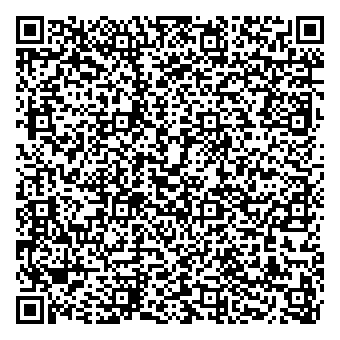
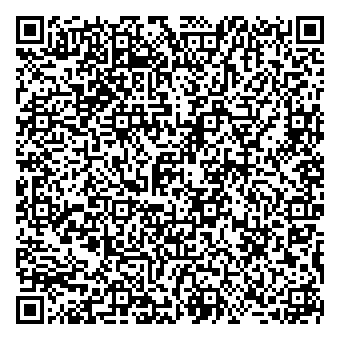
updated test45 to also include base32 version of cose for smaller QR.

diff --git a/testjws.js b/testjws.js
@@ -36,10 +36,14 @@ AwEHoUQDQgAE8HOwR7KpuzBJn+H2Go2Qk9EmsK20+wzylQ64IKhrrszOrmIekG1v
 IwT8wck/ahwIRdyWBEqCZ7gdy3Gg8MADTQ==
 -----END EC PRIVATE KEY-----`
 
-let payload = cbor.encode(DATA)
+//let encoded = cbor.encode(DATA)
+//let payload = encoded.toString('hex')
+//let payload = { c: encoded }
+let payload = DATA
 
 console.log("JSON SIZE:",JSON.stringify(DATA).length)
-console.log("PAYLOAD IS",payload.length,payload)
+//console.log("CBOR SIZE:",encoded.length)
+console.log("PAYLOAD IS",payload.length)
 
 let signature = jws.sign( {
   header: { alg: ALGO },
@@ -47,10 +51,13 @@ let signature = jws.sign( {
   privateKey: privKey
 } )
 
-//let pubKey = fs.readFileSync( process.argv[3] )
 console.log(signature.length,signature)
 
-//console.log( jws.verify( signature, ALGO, pubKey.toString() ) )
+let pubKey = `-----BEGIN PUBLIC KEY-----
[1 lines of base64/hex data omitted]
++wzylQ64IKhrrszOrmIekG1vIwT8wck/ahwIRdyWBEqCZ7gdy3Gg8MADTQ==
+-----END PUBLIC KEY-----`
+console.log( jws.verify( signature, ALGO, pubKey.toString() ) )
 
 console.log("JWS L")
 console.log(qrcode.create(signature, { errorCorrectionLevel: 'L' }))
@@ -68,6 +75,8 @@ console.log(qrcode.create(sig_32, { errorCorrectionLevel: 'Q' }))
 
 let decoded = jws.decode(signature)
 console.log(decoded)
+//console.log(cbor.decode(Buffer.from(decoded.payload,'hex')))
+
 console.log(JSON.stringify(decoded).length)
 let cbor_decoded = base32.encode(cbor.encode(decoded)).toUpperCase()
 console.log(cbor_decoded.length, cbor_decoded)

diff --git a/test45.js b/test45.js
@@ -1,6 +1,7 @@
 const cbor = require('cbor')
 const qrcode = require('qrcode')
 const base45 = require('base45')
+const base32 = require('base32')
 const jws = require('jws')
 const stringifyObject = require('stringify-object')
 const cose = require('cose-js')
@@ -137,6 +138,7 @@ IwT8wck/ahwIRdyWBEqCZ7gdy3Gg8MADTQ==
 -----END EC PRIVATE KEY-----`
     } )
 
+      /* makes invalid JWS due to payload and haven't found a way to retrieve from the payload yet
     let jwscbr = jws.sign( { 
       header: { alg: 'ES256' },
       payload: cbrstr,
@@ -146,6 +148,7 @@ AwEHoUQDQgAE8HOwR7KpuzBJn+H2Go2Qk9EmsK20+wzylQ64IKhrrszOrmIekG1v
 IwT8wck/ahwIRdyWBEqCZ7gdy3Gg8MADTQ==
 -----END EC PRIVATE KEY-----`
     } )
+    */
 
 
     const headers = {
@@ -160,6 +163,7 @@ IwT8wck/ahwIRdyWBEqCZ7gdy3Gg8MADTQ==
 
     let cosebuf = await cose.sign.create(headers,JSON.stringify(msg),signer)
     let cosestr =  cosebuf.toString('hex')
+    let cose32 = base32.encode(cosebuf).toUpperCase()
 
 
     let serializations = {
@@ -168,8 +172,9 @@ IwT8wck/ahwIRdyWBEqCZ7gdy3Gg8MADTQ==
 	'cbor_b45' : b45str,
 	'jwt' : jwtstr,
 	'cose' : cosestr,
+	'cose32' : cose32,
   'jws' : jwsstr,
-  'jwscbr' : jwscbr
+  //'jwscbr' : jwscbr
     }
 
     

diff --git a/testcose.js b/testcose.js
@@ -46,12 +46,16 @@ const verifier = {
 }
 
 cose.sign.create(headers, JSON.stringify(DATA), signer).then ( (buf) => {
-  console.log(buf)
   console.log(buf.toString('hex'))
   let buf_32 = base32.encode(buf).toUpperCase()
+  console.log(qrcode.create(buf.toString('hex'), { errorCorrectionLevel: 'Q' }))
   console.log(qrcode.create(buf_32, { errorCorrectionLevel: 'Q' }))
 
-  cose.sign.verify( buf, verifier ).then( (ver) => {
+  console.log(buf)
+  let rebuf = Buffer.from(base32.decode( buf_32 ), 'binary')
+  console.log(rebuf)
+
+  cose.sign.verify( rebuf, verifier ).then( (ver) => {
     console.log("VERIFIED", ver.toString('utf8'))
   } )
 
